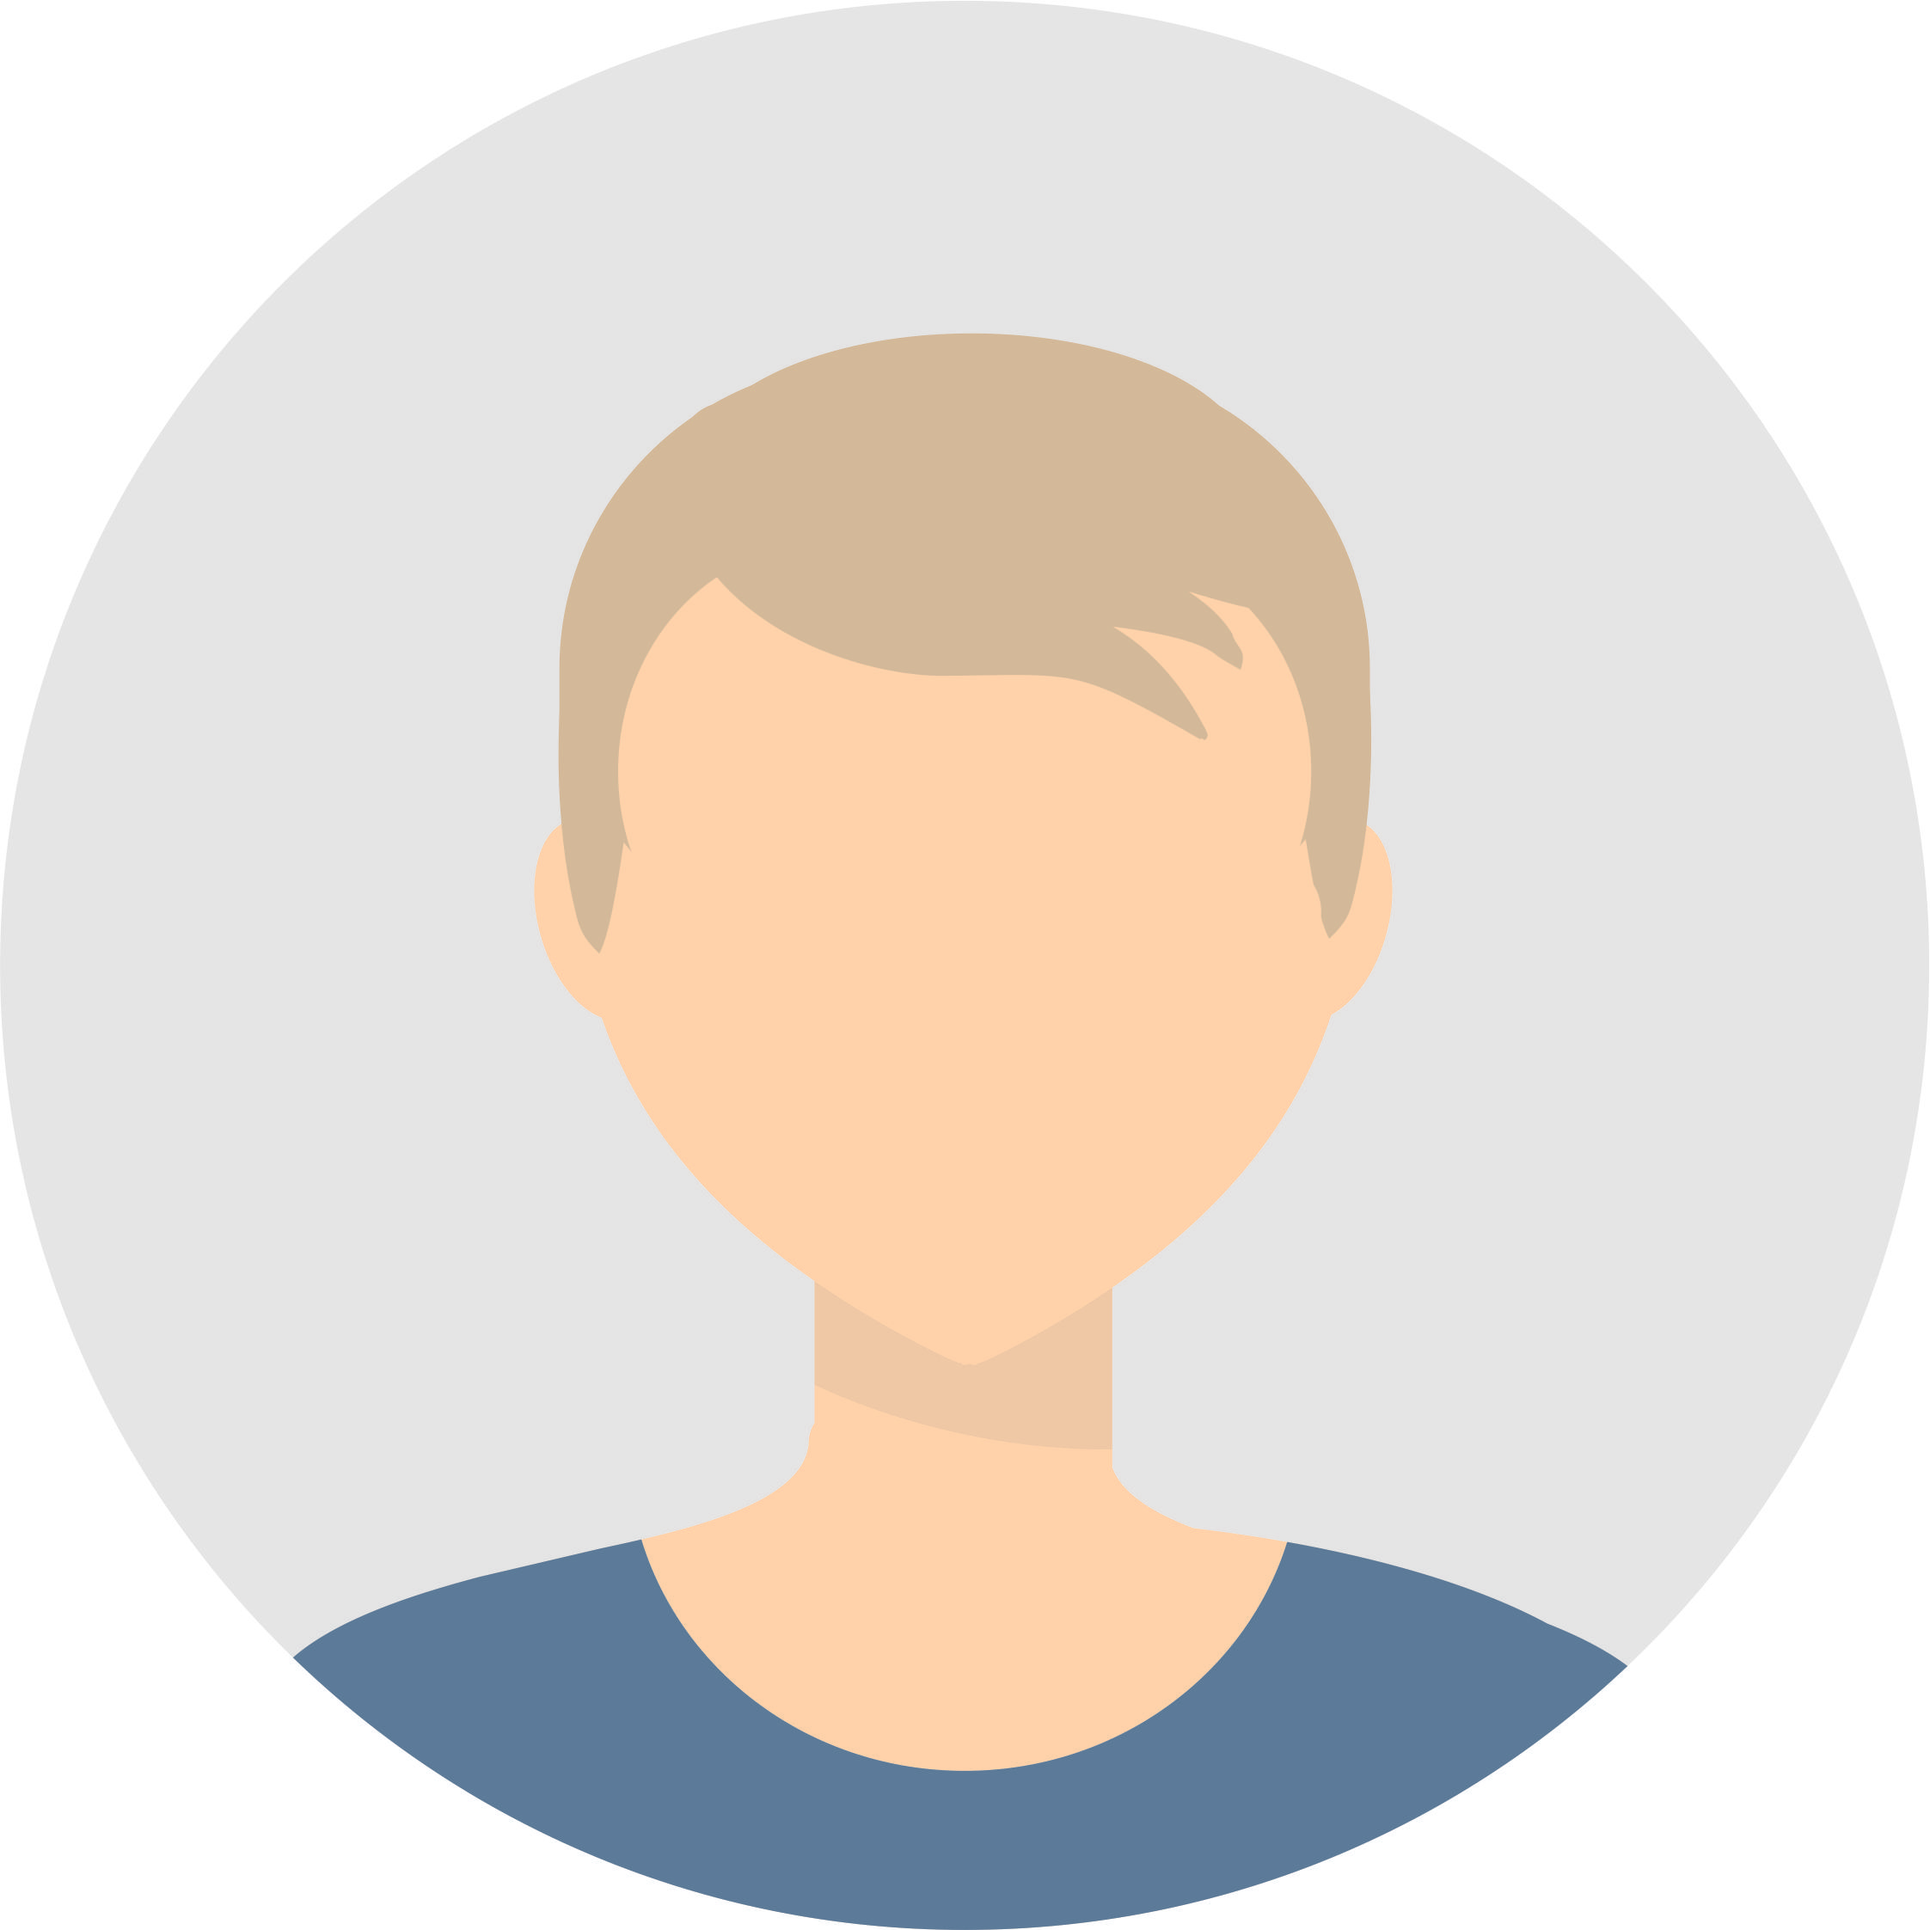
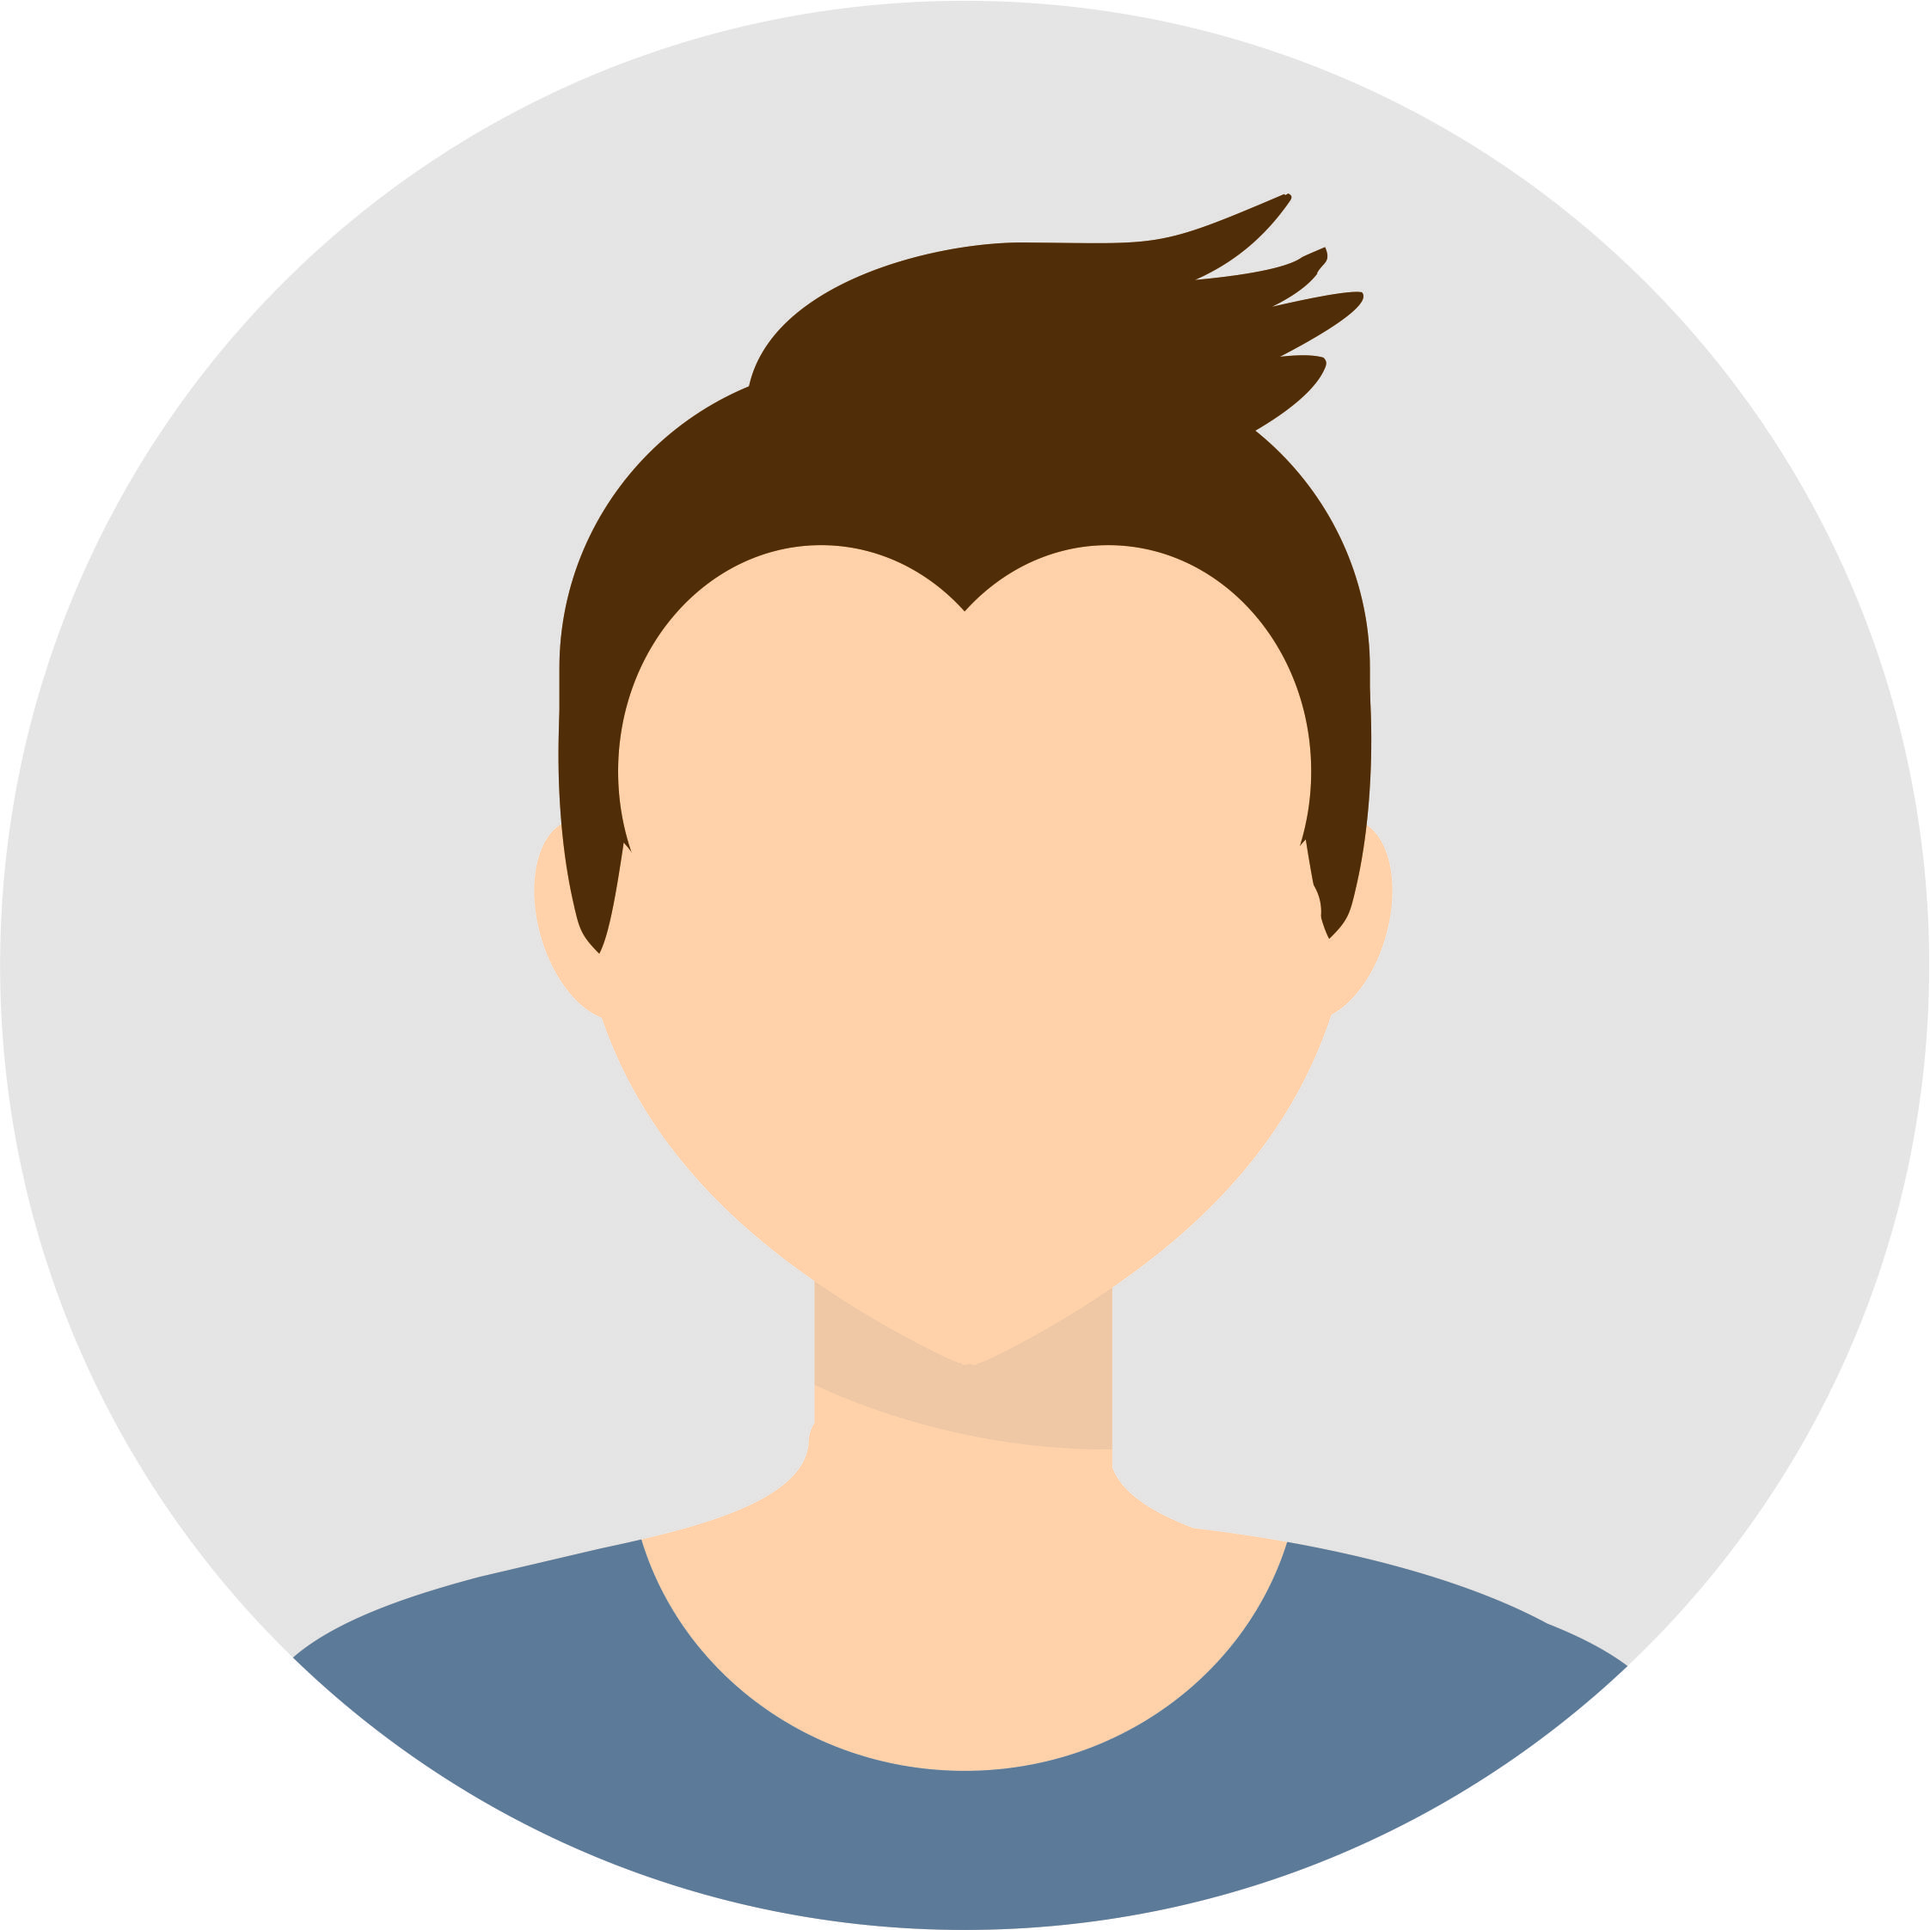
#35
-Added avatar field in register form
-Avatar is loaded in /profile page

Changed region(s): [[0.2806, 0.0935, 0.7171, 0.4989]]

diff --git a/client/src/app/auth/components/register/register.component.ts b/client/src/app/auth/components/register/register.component.ts
@@ -1,20 +1,36 @@
 import { Component, OnInit } from '@angular/core';
 import { Router } from '@angular/router';
 import { UserService } from '../../user.service';
+import { HttpClient } from '@angular/common/http';
 
 @Component({
   selector: 'app-register',
   templateUrl: './register.component.html',
   styleUrls: ['./register.component.scss']
 })
+
+
+
 export class RegisterComponent implements OnInit {
 
-  constructor(public service: UserService, private router: Router) { }
+  constructor(public service: UserService, private router: Router, private http:HttpClient) { }
+
+  readonly BaseURL = 'https://localhost:5001/api';
+
+  Avatars: any;
 
   ngOnInit(): void {
     this.service.formModel.reset();
+    this.getAvatars();
   }
 
+  getAvatars(){
+    this.http.get<any>(this.BaseURL+`/Avatars`).subscribe( res => {
+      this.Avatars = res;
+      console.log(this.Avatars);
+    } );
+  }
+  
   onSubmit(){
     this.service.register().subscribe(
       (res:any) =>{

diff --git a/client/src/app/auth/components/register/register.component.html b/client/src/app/auth/components/register/register.component.html
@@ -34,6 +34,17 @@
 								<input type="password" class="form-control" placeholder="confirm password" formControlName="ConfirmPassword" data-bs-toggle="tooltip" data-bs-html="true" title="Password must be at least 6 characters long, uppercase and special"> 
 							</div>
 						</div>
+						<div class="input-group form-group">
+							<fieldset>
+								<h5>Choose your avatar:</h5>
+								<span *ngFor="let avatar of Avatars">
+									<input type="radio" name="avatar" class="sr-only" id="{{ avatar.id }}" value="{{ avatar.id }}" formControlName="avatar">
+									<label for="{{ avatar.id }}">
+									<img class="rounded-circle m-1" style="height: 50px; width: 50px" src="{{ avatar.url }}" alt="male">
+									</label>
+								</span>
+							</fieldset>
+						</div>
 						<div class="form-group">
 							<input type="submit" value="Sign up" class="btn float-right login_btn" [disabled]="!service.formModel.valid">
 						</div>

diff --git a/client/src/app/profile/profile.component.ts b/client/src/app/profile/profile.component.ts
@@ -13,6 +13,7 @@ export class ProfileComponent implements OnInit {
   readonly BaseURL = 'https://localhost:5001/api';
   displayName: string = 'displayName';
   email: string = 'email';
+  avatarUrl: string ='https://localhost:5001/Content/avatars/av-male.jpg';
 
   constructor(private router: Router,private http:HttpClient) { }
 
@@ -28,11 +29,11 @@ export class ProfileComponent implements OnInit {
       this.http.get<any>(this.BaseURL+`/Accounts`, { headers: reqHeader }).subscribe( res => {
         this.displayName = res['displayName'];
         this.email = res['email'];
+        if(res['avatar'] != null)
+          this.avatarUrl = res['avatar'];
       } );
       
     }
   }
-
-
 
 }

diff --git a/client/src/app/auth/user.service.ts b/client/src/app/auth/user.service.ts
@@ -22,15 +22,18 @@ export class UserService {
     } ,{
       validators: [MustMatch('Password', 'ConfirmPassword'),StrongPassword('Password')]
     }     
-    )
+    ),
+    avatar : ['']
   });
 
   register(){
     var body = {
       displayName: this.formModel.value.DisplayName,
       email: this.formModel.value.Email,
-      password: this.formModel.value.Passwords.Password
+      password: this.formModel.value.Passwords.Password,
+      avatarId: this.formModel.value.avatar
     }
+    console.log(body);
     return this.http.post(this.BaseURL+'/Accounts/register',body);
     
   }

diff --git a/client/src/app/profile/profile.component.html b/client/src/app/profile/profile.component.html
@@ -2,8 +2,8 @@
     <header class="page-header gradient2">
         <div class="">
             <div class="d-flex justify-content-center">
-                <div class="">
-                    <img style="height:12rem" src="assets/img/av-male-1.png" class="img-resposive" alt="...">
+                <div class="mt-4">
+                    <img style="height:10rem" src="{{avatarUrl}}" class="img-resposive" alt="...">
                 </div>
             </div>
             <div class="d-sm-flex justify-content-center mt-4 pb-4">

diff --git a/client/src/app/auth/components/register/register.component.scss b/client/src/app/auth/components/register/register.component.scss
@@ -54,3 +54,20 @@ input:focus {
     margin-left: 4px;
     color: #b19544;
 }
+
+label {
+    cursor: pointer;
+    filter: grayscale(100%);
+}
+
+label:hover {
+    filter: grayscale(0);
+}
+
+input[type="radio"]:checked+label {
+    filter: grayscale(0);
+}
+
+h5 {
+    color: white;
+}

diff --git a/client/README.md b/client/README.md
@@ -5,7 +5,7 @@ This project was generated with [Angular CLI](https://github.com/angular/angular
 ## Development server
 
 Run `ng serve` for a dev server. Navigate to `http://localhost:4200/`. The app will automatically reload if you change any of the source files.
-Run `ng serve --ssl true --ssl-cert "ssl/server.crt" --ssl-key "ssl/server.key"` to run with ssl.
+Run `ng serve --ssl true --ssl-cert "ssl/server.crt" --ssl-key "ssl/server.key"` to run with ssl. 
 
 ## Code scaffolding
 
